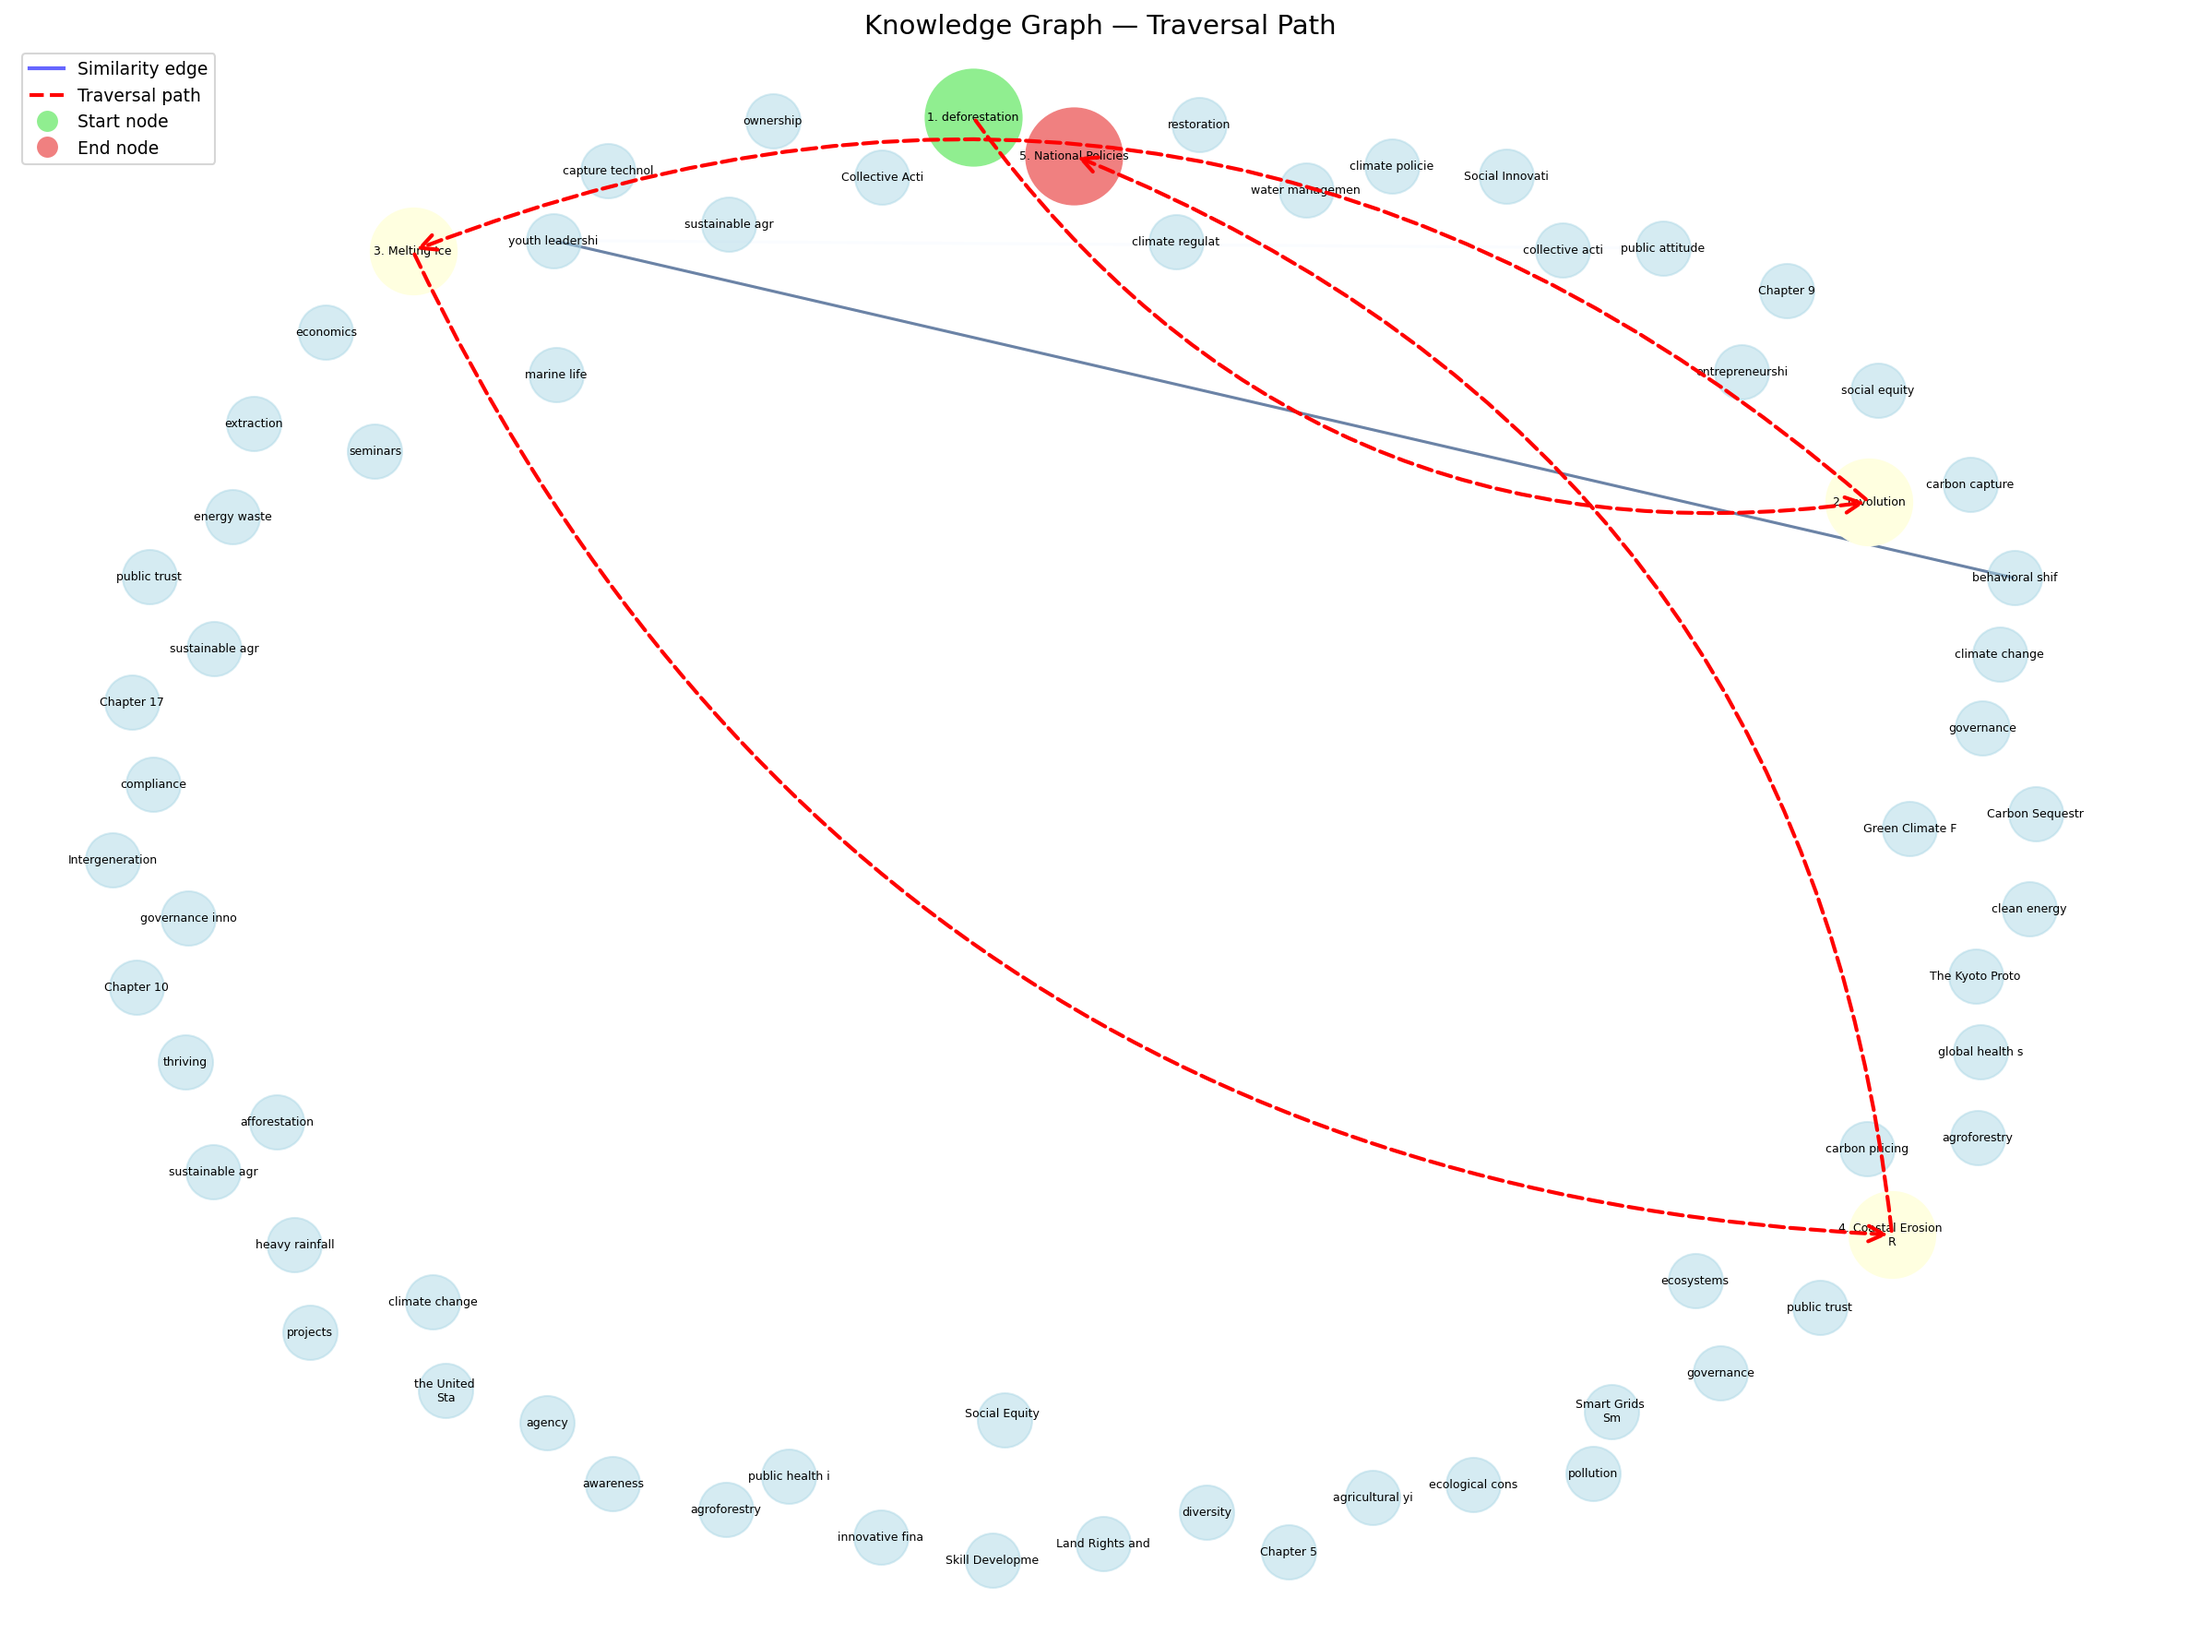
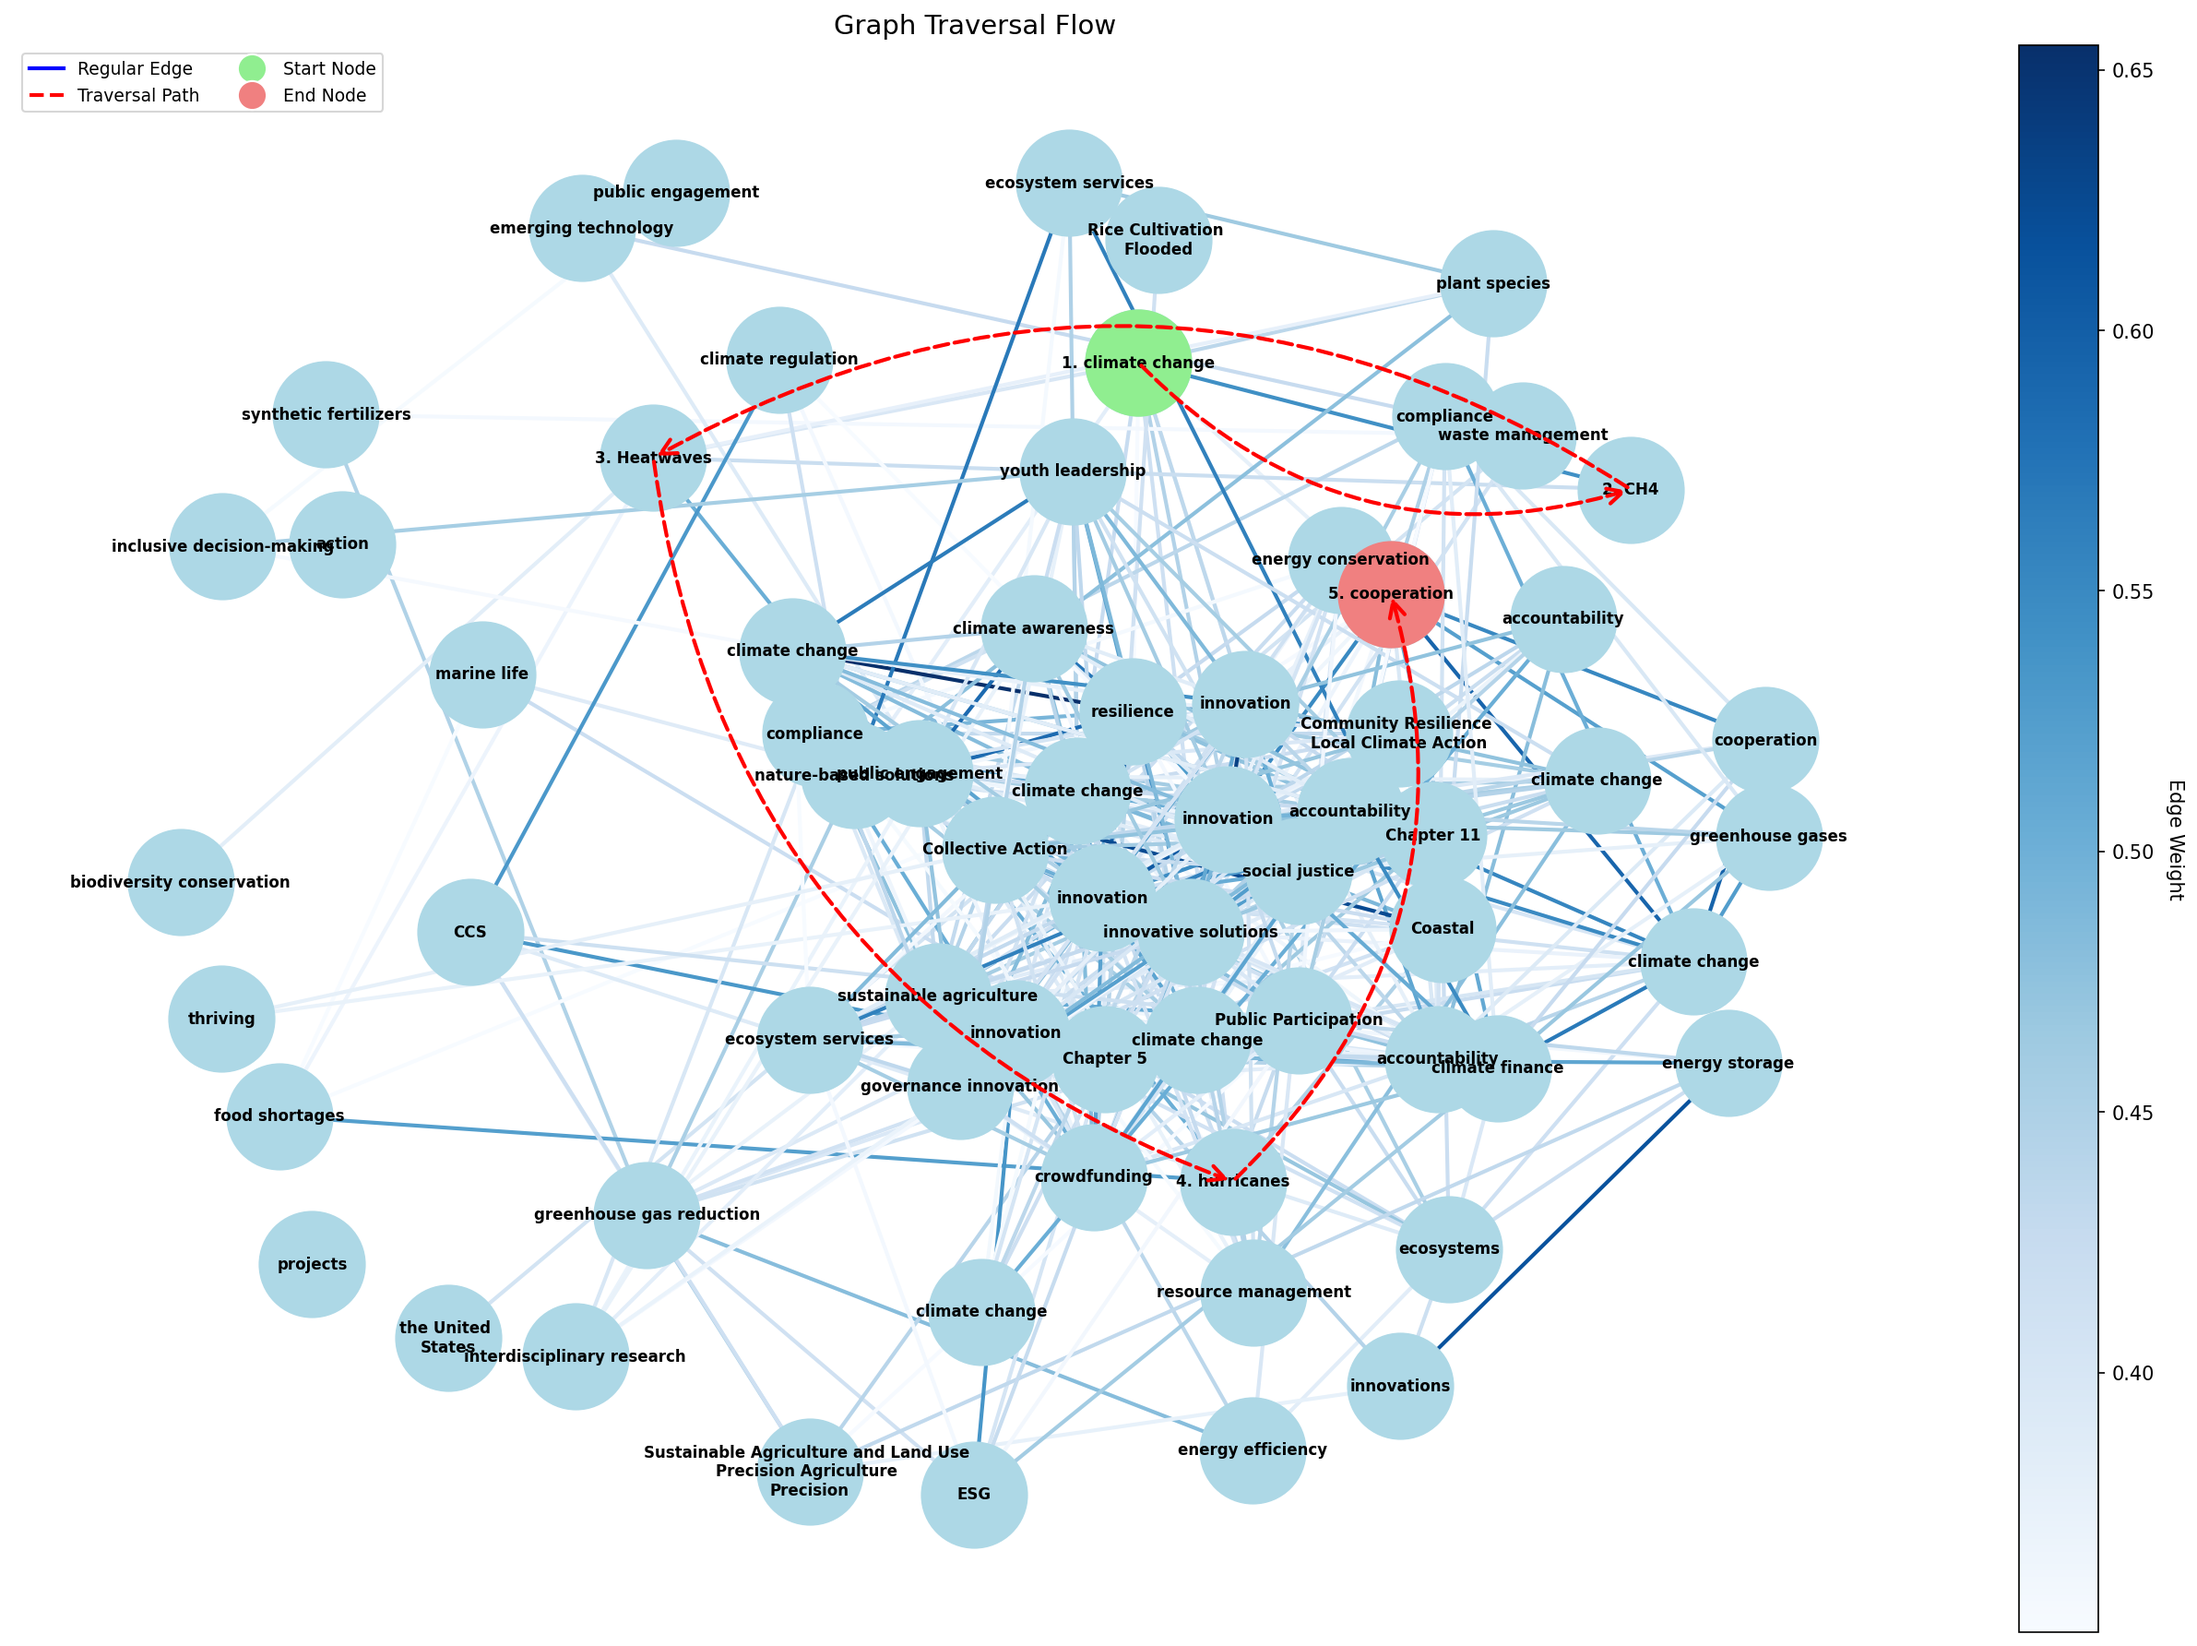
add

Changed region(s): [[0.0311, 0.0, 0.9941, 0.9865], [0.1864, 0.37, 0.2796, 0.4624], [0.0, 0.0308, 0.1864, 0.0925]]

diff --git a/src/util.py b/src/util.py
@@ -84,7 +84,7 @@ class KnowledgeGraph:
       self.lemmatizer=WordNetLemmatizer()
       self.concept_cache={}
       self.nlp=self._load_spacy_model()
-      self.edges_threshold=0.8
+      self.edges_threshold=0.5
     
     def _load_spacy_model(self):
         return spacy.load("en_core_web_sm")
@@ -261,33 +261,20 @@ def visualize_graph(knowledge_graph, traversal_path, save_path="graph_traversal.
         return
 
     fig, ax = plt.subplots(figsize=(16, 12))
-    pos = nx.spring_layout(graph, k=2, iterations=50, seed=42)
+    pos = nx.spring_layout(graph, k=1, iterations=50, seed=42)  # k=1 like notebook (tighter layout)
 
-    # Draw edges
+    # Draw edges with color mapped to weight
     edges = list(graph.edges())
     if edges:
         edge_weights = [graph[u][v].get('weight', 0.5) for u, v in edges]
         nx.draw_networkx_edges(graph, pos, edgelist=edges, edge_color=edge_weights,
-                               edge_cmap=plt.cm.Blues, width=1.5, ax=ax, alpha=0.6)
+                               edge_cmap=plt.cm.Blues, width=2, ax=ax)
 
-    # Draw all nodes
-    non_traversal = [n for n in graph.nodes() if n not in traversal_path]
-    nx.draw_networkx_nodes(graph, pos, nodelist=non_traversal, node_color='lightblue',
-                           node_size=800, ax=ax, alpha=0.5)
+    # Draw ALL nodes as lightblue (like notebook)
+    nx.draw_networkx_nodes(graph, pos, node_color='lightblue',
+                           node_size=3000, ax=ax)
 
-    # Draw traversal nodes (larger)
-    traversal_middle = traversal_path[1:-1] if len(traversal_path) > 2 else []
-    nx.draw_networkx_nodes(graph, pos, nodelist=traversal_middle, node_color='lightyellow',
-                           node_size=2000, ax=ax)
-
-    # Start and end nodes
-    nx.draw_networkx_nodes(graph, pos, nodelist=[traversal_path[0]],
-                           node_color='lightgreen', node_size=2500, ax=ax)
-    if len(traversal_path) > 1:
-        nx.draw_networkx_nodes(graph, pos, nodelist=[traversal_path[-1]],
-                               node_color='lightcoral', node_size=2500, ax=ax)
-
-    # Draw traversal arrows
+    # Draw traversal path with curved arrows
     for i in range(len(traversal_path) - 1):
         arrow = patches.FancyArrowPatch(
             pos[traversal_path[i]], pos[traversal_path[i + 1]],
@@ -296,28 +283,44 @@ def visualize_graph(knowledge_graph, traversal_path, save_path="graph_traversal.
         )
         ax.add_patch(arrow)
 
-    # Labels
+    # Labels — full concept name (no truncation)
     labels = {}
     for i, node in enumerate(traversal_path):
         concepts = graph.nodes[node].get('concepts', [])
-        labels[node] = f"{i+1}. {concepts[0][:18] if concepts else ''}"
+        labels[node] = f"{i+1}. {concepts[0] if concepts else ''}"
     for node in graph.nodes():
         if node not in labels:
             concepts = graph.nodes[node].get('concepts', [])
-            labels[node] = concepts[0][:15] if concepts else str(node)
-    nx.draw_networkx_labels(graph, pos, labels, font_size=6, ax=ax)
+            labels[node] = concepts[0] if concepts else ''
+    nx.draw_networkx_labels(graph, pos, labels, font_size=8, font_weight="bold", ax=ax)
 
-    ax.set_title("Knowledge Graph — Traversal Path", fontsize=14)
+    # Highlight start and end nodes (drawn AFTER regular nodes to overlay)
+    nx.draw_networkx_nodes(graph, pos, nodelist=[traversal_path[0]],
+                           node_color='lightgreen', node_size=3000, ax=ax)
+    if len(traversal_path) > 1:
+        nx.draw_networkx_nodes(graph, pos, nodelist=[traversal_path[-1]],
+                               node_color='lightcoral', node_size=3000, ax=ax)
+
+    ax.set_title("Graph Traversal Flow", fontsize=14)
     ax.axis('off')
+
+    # Colorbar for edge weights
+    if edges:
+        sm = plt.cm.ScalarMappable(cmap=plt.cm.Blues,
+                                    norm=plt.Normalize(vmin=min(edge_weights), vmax=max(edge_weights)))
+        sm.set_array([])
+        cbar = fig.colorbar(sm, ax=ax, orientation='vertical', fraction=0.046, pad=0.04)
+        cbar.set_label('Edge Weight', rotation=270, labelpad=15)
 
     # Legend
     lines = [
-        plt.Line2D([0], [0], color='blue', linewidth=2, alpha=0.6, label='Similarity edge'),
-        plt.Line2D([0], [0], color='red', linewidth=2, linestyle='--', label='Traversal path'),
-        plt.Line2D([0], [0], marker='o', color='w', markerfacecolor='lightgreen', markersize=12, label='Start node'),
-        plt.Line2D([0], [0], marker='o', color='w', markerfacecolor='lightcoral', markersize=12, label='End node'),
+        plt.Line2D([0], [0], color='blue', linewidth=2, label='Regular Edge'),
+        plt.Line2D([0], [0], color='red', linewidth=2, linestyle='--', label='Traversal Path'),
+        plt.Line2D([0], [0], marker='o', color='w', markerfacecolor='lightgreen', markersize=15, label='Start Node'),
+        plt.Line2D([0], [0], marker='o', color='w', markerfacecolor='lightcoral', markersize=15, label='End Node'),
     ]
-    plt.legend(handles=lines, loc='upper left', fontsize=9)
+    plt.legend(handles=lines, loc='upper left', bbox_to_anchor=(0, 1), ncol=2, fontsize=9)
+
     plt.tight_layout()
     plt.savefig(save_path, dpi=150, bbox_inches='tight')
     print(f"Graph visualization saved to {save_path}")
